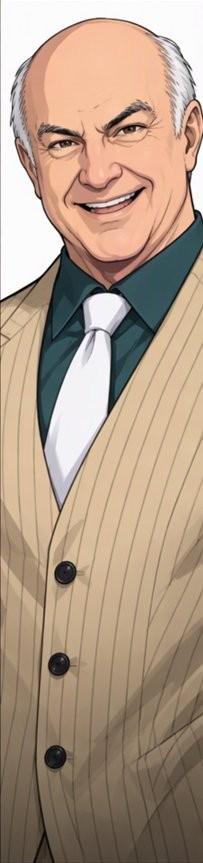
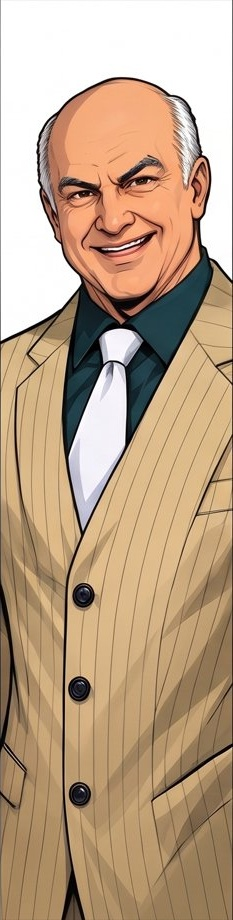
-- atualização de fotos ramon, ricardo, ed

diff --git a/frontend/src/components/vn/VisualNovelOverlay.jsx b/frontend/src/components/vn/VisualNovelOverlay.jsx
@@ -9,7 +9,11 @@ import {
   XCircle,
 } from 'lucide-react'
 import cutout1Valdir from '../../assets/cutout-1-valdir.png'
-import cutout2Ramon from '../../assets/cutout-2-ramon.png'
+import cutout2RamonPose1 from '../../assets/cutout-2-ramon-pose1.png'
+import cutout2RamonPose2 from '../../assets/cutout-2-ramon-pose2.png'
+import cutout2RamonPose3 from '../../assets/cutout-2-ramon-pose3.png'
+import cutout2RamonWrong from '../../assets/cutout-2-ramon-wrong.png'
+import cutout2RamonSuccess from '../../assets/cutout-2-ramon-success.png'
 import cutout3Vanessa from '../../assets/cutout-3-vanessa.png'
 import cutout4Jhonny from '../../assets/cutout-4-jhonny.png'
 import cutout5Juarez from '../../assets/cutout-5-juarez.png'
@@ -38,9 +42,9 @@ const MEMBER_CUTOUTS = {
     success: null,
   },
   2: {
-    default: [cutout2Ramon],
-    wrong: null,
-    success: null,
+    default: [cutout2RamonPose1, cutout2RamonPose2, cutout2RamonPose3],
+    wrong: cutout2RamonWrong,
+    success: cutout2RamonSuccess,
   },
   3: {
     default: [cutout3Vanessa],
